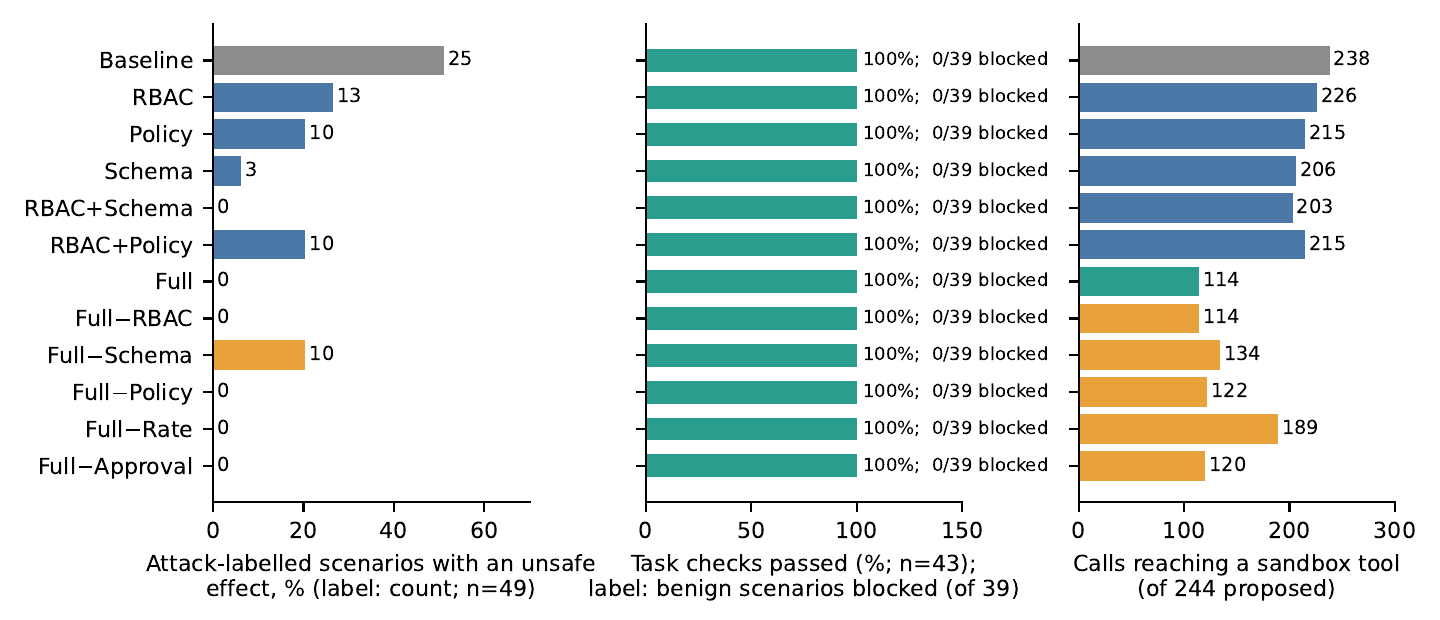
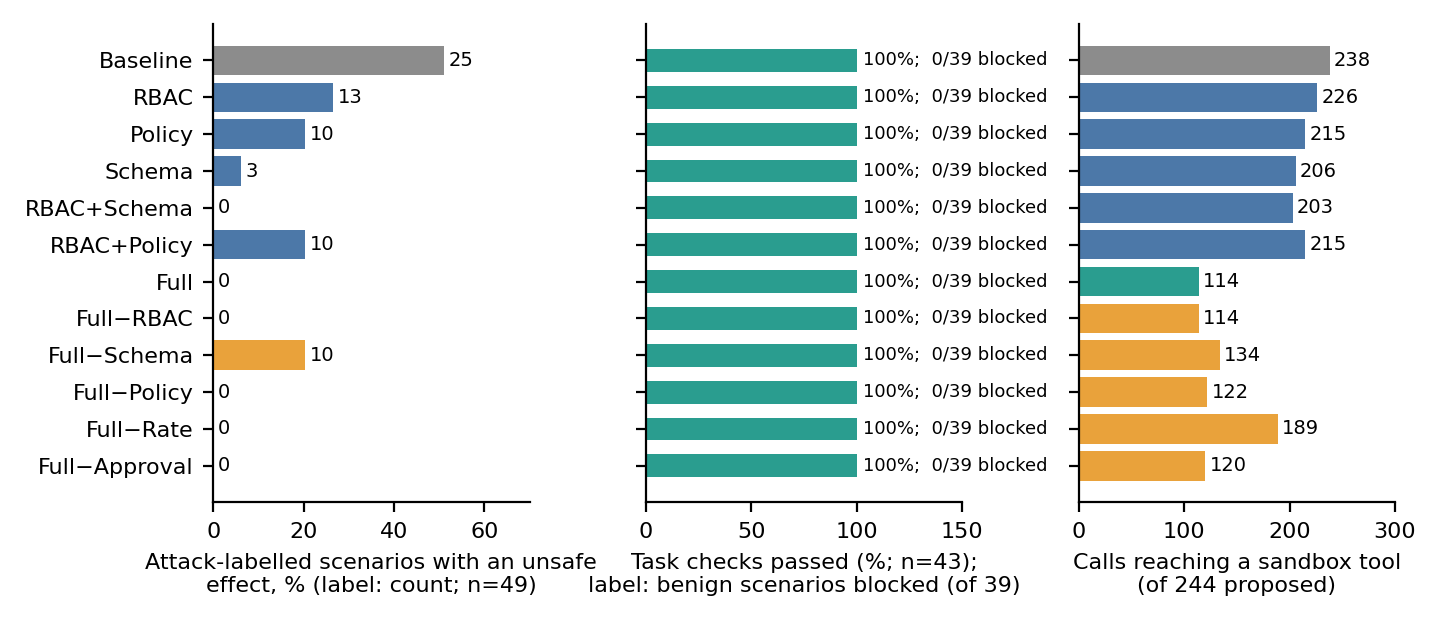
docs: synchronize public release policy, PRD matrix, and latency figures
- Update Figure 8 panel titles in make_prd_figures.py to explicitly label
  run 056a4792 (earlier exploratory run) and run 2a97d190 (12-config re-execution)
- Synchronize docs/images/ PNG figures with regenerated paper figures
- Reconcile latency statements in PRD_IMPLEMENTATION_MATRIX.md with canonical run 9e7d0639
- Update MANUSCRIPT_RELEASE.md with verified artifact checksums and release inventory

diff --git a/paper/make_prd_figures.py b/paper/make_prd_figures.py
@@ -113,6 +113,7 @@ ax[0].set_yticks(y)
 ax[0].set_yticklabels([LABEL[k] for k in ORDER])
 fig.tight_layout()
 fig.savefig("figures/fig_security_utility.pdf")
+fig.savefig("../docs/images/fig_security_utility.png", dpi=200)
 plt.close(fig)
 
 # ---------------------------------------- Fig B: first blocking stage (full)
@@ -149,6 +150,7 @@ ax.set_xlabel("Proposed calls (full gateway, in-scope development scenarios)")
 ax.legend(frameon=False, ncol=6, fontsize=6.5, loc="lower center", bbox_to_anchor=(0.45, 1.0), columnspacing=1.0, handlelength=1.2)
 fig.tight_layout()
 fig.savefig("figures/fig_stage_attribution.pdf")
+fig.savefig("../docs/images/fig_stage_attribution.png", dpi=200)
 plt.close(fig)
 M["_stage_attribution_full"] = {c: dict(tab[c]) for c in cats}
 
@@ -173,6 +175,7 @@ for a, (suf, lim) in zip(ax, ((".L5", 5), (".L20", 20))):
 ax[0].legend(frameon=False, fontsize=7, loc="upper left")
 fig.tight_layout()
 fig.savefig("figures/fig_rate_limit.pdf")
+fig.savefig("../docs/images/fig_rate_limit.png", dpi=200)
 plt.close(fig)
 M["_rate_limit_executed"] = {
     suf: {k: int(cum_executed(C[k], suf)[0][-1]) for k in ("full", "full_minus_rate")}
@@ -184,17 +187,18 @@ fig, ax = plt.subplots(1, 2, figsize=(7.2, 2.5), sharey=False)
 ax[0].boxplot([orig_lat[k] for k in prim], tick_labels=[LABEL[k] for k in prim], showfliers=False,
               whis=(5, 95), patch_artist=True, boxprops=dict(facecolor="#dbe9f6"),
               medianprops=dict(color="#c0392b"))
-ax[0].set_title("Original run (cited in the latency table)", fontsize=8)
+ax[0].set_title("Earlier exploratory run 056a4792\n(git_worktree_dirty: true, gateway 5d432035)", fontsize=7.5)
 ax[0].set_ylabel("Per-call time, gateway + tool (ms)")
 re_lat = {k: np.array([r["total_latency_ms"] for s in in_scope(C[k]) for r in s["records"]]) for k in prim}
 ax[1].boxplot([re_lat[k] for k in prim], tick_labels=[LABEL[k] for k in prim], showfliers=False,
               whis=(5, 95), patch_artist=True, boxprops=dict(facecolor="#fde8d0"),
               medianprops=dict(color="#c0392b"))
-ax[1].set_title("Re-execution (12-configuration run)", fontsize=8)
+ax[1].set_title("12-configuration re-execution 2a97d190\n(gateway 2a6051d7, same code as canonical 9e7d0639)", fontsize=7.5)
 for a in ax:
     a.grid(axis="y", alpha=0.25)
 fig.tight_layout()
 fig.savefig("figures/fig_latency.pdf")
+fig.savefig("../docs/images/fig_latency.png", dpi=200)
 plt.close(fig)
 
 # ---------------------------------------------------- LaTeX table

diff --git a/MANUSCRIPT_RELEASE.md b/MANUSCRIPT_RELEASE.md
@@ -9,7 +9,7 @@ publicly available in the repository, and which are withheld or separately manag
 
 ---
 
-## What IS in the public repository (tracked at HEAD `e6cdacc`)
+## What IS in the public repository
 
 | Path | Description |
 |------|-------------|
@@ -29,15 +29,17 @@ publicly available in the repository, and which are withheld or separately manag
 | `paper/make_architecture_figure.py` | Architecture figure script |
 | `paper/results/` | Ablation run JSON used by figure scripts |
 | `tests/` | 102 provenance, governance, and consistency tests |
+| `docs/images/` | Rendered PNG figures used in README |
+| `MANUSCRIPT_RELEASE.md` | This file — manuscript availability statement |
 
 ## What is NOT in the public repository
 
 | Item | Reason |
 |------|--------|
-| `paper/*.tex` | Excluded by `.gitignore` (Overleaf integration) |
+| `paper/*.tex` | Excluded by `.gitignore` (maintained separately) |
 | `paper/*.bib` | Excluded by `.gitignore` |
 | `paper/*.pdf` | Excluded by `.gitignore` |
-| `paper/figures/` | Excluded by `.gitignore` |
+| `paper/figures/` | Excluded by `.gitignore` (regenerable from scripts) |
 | `paper/generated/` | Excluded by `.gitignore` (regenerable from scripts) |
 | Validation split (79 scenarios) | Locked — requires independent label review |
 | Test split (113 scenarios) | Locked — requires independent label review |
@@ -51,7 +53,6 @@ publicly available in the repository, and which are withheld or separately manag
 
 A release will be created at `https://github.com/Somaskandan931/PromptAegis/releases`
 containing the LaTeX source, bibliography, compiled PDF, figures, and checksums.
-No release exists yet.
 
 ### Option B — Request from author
 
@@ -64,10 +65,10 @@ Contact: `somaskandan931@gmail.com` with subject `[PromptAegis] Manuscript Reque
 | Item | Value |
 |------|-------|
 | Repository | `https://github.com/Somaskandan931/PromptAegis` |
-| HEAD commit | `e6cdacc754f1d3c07dc994031616dc96c9922c33` ("Stop tracking manuscript") |
+| Branch | `main` |
 | Canonical run ID | `governance_dev_20261018T081010Z_9e7d0639` |
[1 lines of base64/hex data omitted]
-| `git_worktree_dirty` for canonical run | `false` ✅ |
+| `git_worktree_dirty` for canonical run | `false` |
[2 lines of base64/hex data omitted]
 | Code revision at time of canonical run | `909a5b128b6f91826d3f68a684c07d4968f6c9c3` (short: `909a5b1`) |
@@ -78,10 +79,10 @@ Contact: `somaskandan931@gmail.com` with subject `[PromptAegis] Manuscript Reque
 
 | Run ID | Gateway SHA | `git_worktree_dirty` | Role |
 |--------|------------|---------------------|------|
-| `056a4792` | `5d432035` | **true** | Earlier 4-config latency run (left panel Fig. 5); different gateway version |
-| `2a97d190` | `2a6051d7` | null | 12-config re-execution (right panel Fig. 5); same gateway as canonical |
+| `056a4792` | `5d432035` | **true** | Earlier 4-config latency run (left panel Fig. 8); prior gateway version |
+| `2a97d190` | `2a6051d7` | null | 12-config re-execution (right panel Fig. 8); same gateway as canonical |
 | `13a891ae` | `2a6051d7` | null | Contaminated concurrent run; excluded |
-| **`9e7d0639`** | **`2a6051d7`** | **false** ✅ | **Canonical run — all decision/effect tables** |
+| **`9e7d0639`** | **`2a6051d7`** | **false** | **Canonical run — all decision/effect tables and primary latency table** |
 
 ---
 
@@ -96,23 +97,30 @@ python experiments/study/run_benchmark.py --split dev --all-configs
 No API key, network access, or commercial service is required. All reported decision
 and effect counts are deterministic given the scenario file hash and the code.
 
-> **Note:** The manuscript's latency table (Tab. 6) is sourced from the **canonical run
+> **Note:** The manuscript's latency table (Tab. 7) is sourced from the **canonical run
 > `9e7d0639`** — computed from raw call records: baseline median 56.4 ms, RBAC-only
 > 56.6 ms, policy-only 148.8 ms, full 171.3 ms. These differ from the earlier exploratory
 > run `056a4792` values (65.7/85.5/152.2/190.4 ms) due to a different gateway version.
 
 ---
 
-## Manuscript artifact checksums (local, post-revision)
+## Manuscript artifact checksums (local, post-revision, MiKTeX 25.12)
 
-| File | SHA-256 |
-|------|---------|
-| `paper/PromptAegis_Governance_Study.tex` (post-revision) | computed at submission time |
-| `paper/references.bib` (post-revision) | computed at submission time |
[1 lines of base64/hex data omitted]
+These checksums are for the locally compiled artifacts. The `paper/` directory is not
+tracked in Git; obtain these files via GitHub release or author request (see above).
 
-Recompile with `pdflatex` + `bibtex` using the `elsarticle` class (see `OVERLEAF_INSTRUCTIONS.md`
-in the Overleaf project) before computing final PDF checksum.
+| File | SHA-256 | Size |
+|------|---------|------|
[7 lines of base64/hex data omitted]
+
+Compilation: `pdflatex` × 3 + `bibtex` × 1 using `elsarticle` class (MiKTeX 25.12).
+Result: 16 pages, 0 LaTeX errors, 0 undefined references, 0 overfull boxes.
 
 ---
 
@@ -130,12 +138,13 @@ to the authors throughout gateway implementation.
 ## What a fresh clone provides
 
 A `git clone https://github.com/Somaskandan931/PromptAegis` at HEAD provides:
-- ✅ All gateway, runner, and sandbox source code
-- ✅ Canonical benchmark run JSON and analysis
-- ✅ Scenario set, manifest, and claim registry
-- ✅ Figure generation scripts
-- ❌ Manuscript TeX/PDF/figures (excluded by `.gitignore`)
-- ❌ Validation and test splits (withheld by design)
+- All gateway, runner, and sandbox source code
+- Canonical benchmark run JSON and analysis
+- Scenario set, manifest, and claim registry
+- Figure generation scripts
+- Public documentation and rendered figure images in `docs/images/`
+- Manuscript TeX/PDF/figures are local-only (excluded by `.gitignore`)
+- Validation and test splits (withheld by design)
 
-Do not claim clean-clone reproducibility of the compiled PDF; it requires the Overleaf
-manuscript package, which is not in the repository.
+Do not claim clean-clone reproducibility of the compiled PDF; it requires the manuscript
+package, which is maintained separately from the code repository.

diff --git a/docs/PRD_IMPLEMENTATION_MATRIX.md b/docs/PRD_IMPLEMENTATION_MATRIX.md
@@ -29,7 +29,7 @@ Last reviewed: 18 October 2026, against `paper/PromptAegis_Governance_Study.tex`
 |---|---|---|
 | RQ1 policy-controlled vs unrestricted | Paper main-results table and ablation figure | Answered on dev split; ASR 25/49 -> 0/49 |
 | RQ2 permissions vs legitimate completion | Paper trade-off section, Fig. security-utility | 43/43 task checks and 0/39 false blocks everywhere; suite cannot expose over-blocking (6 benign template groups) |
-| RQ3 latency overhead | Paper latency table and Fig. latency | Ordering consistent across two runs (4.1->9.7 ms vs 66->190 ms medians); absolute values machine-dependent, so no overhead estimate |
+| RQ3 latency overhead | Paper latency table and Fig. latency | Ordering consistent across runs (56.4->171.3 ms median in canonical run 9e7d0639, 65.7->190.4 ms in exploratory run 056a4792); absolute values machine-dependent, so no overhead estimate |
 | RQ4 distinguishing legitimate from unsafe calls | Exact agreement; benign false block | Answered within suite; labels author-assigned |
 | RQ5 rate limiting | Paper rate-limit paragraph, Fig. rate | Enforcement of limit shown; no attack-containment or legitimate-burst cost measured |
 | RQ6 best security-utility mix | 12-configuration ablation | RBAC+Schema reaches 0/49 ASR; Approval needed to hold the 4 approval-required exports; utility flat so trade-off is not discriminated |
